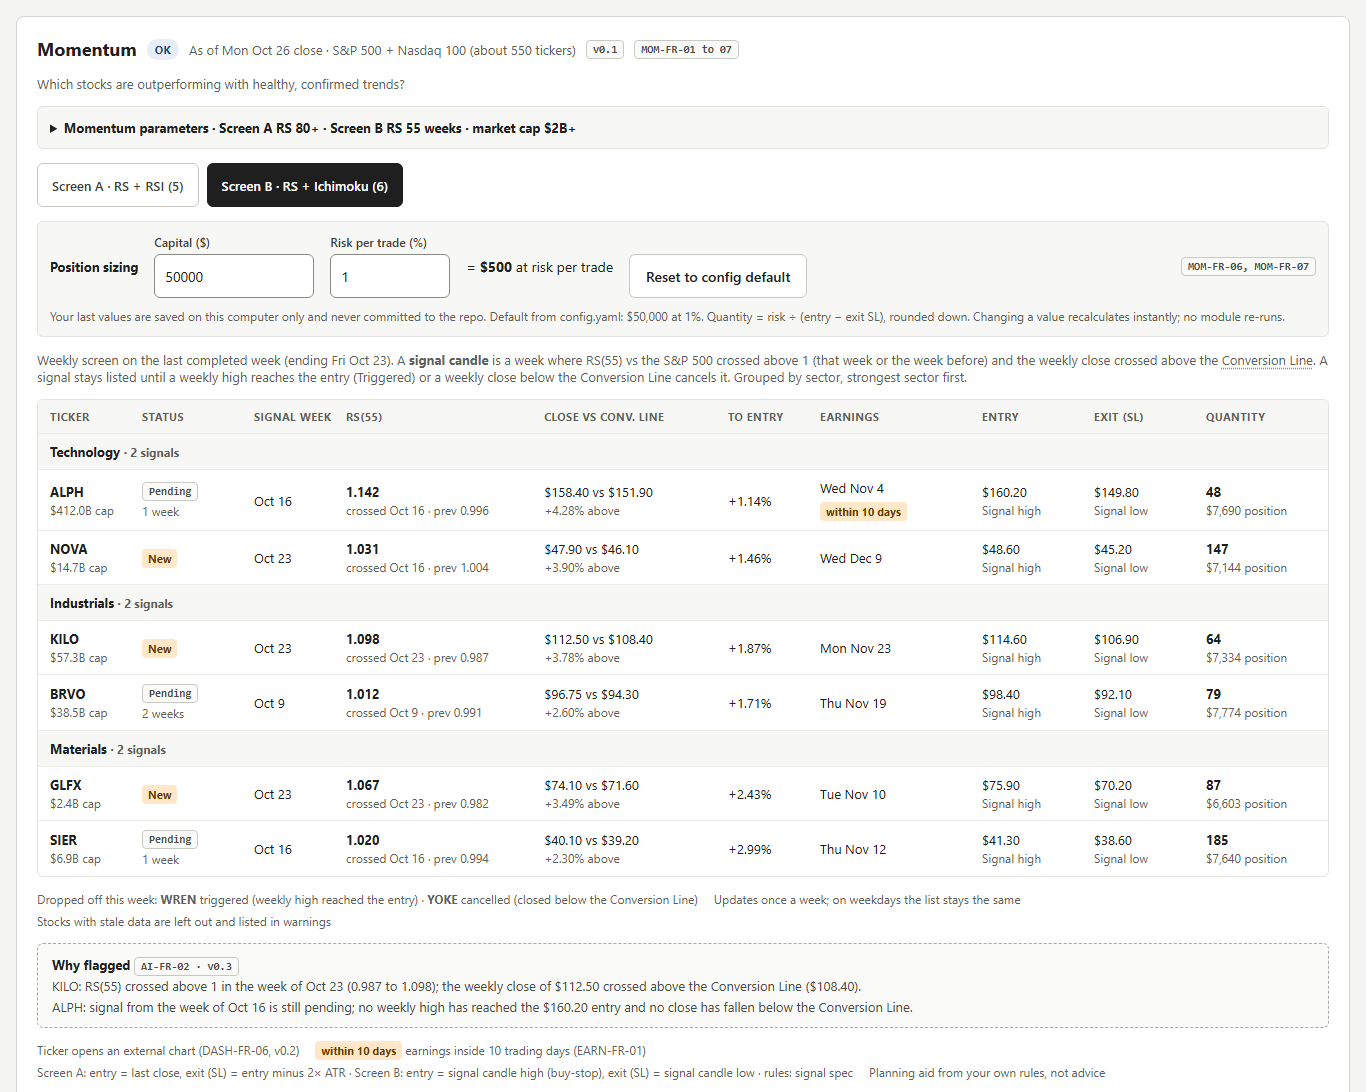
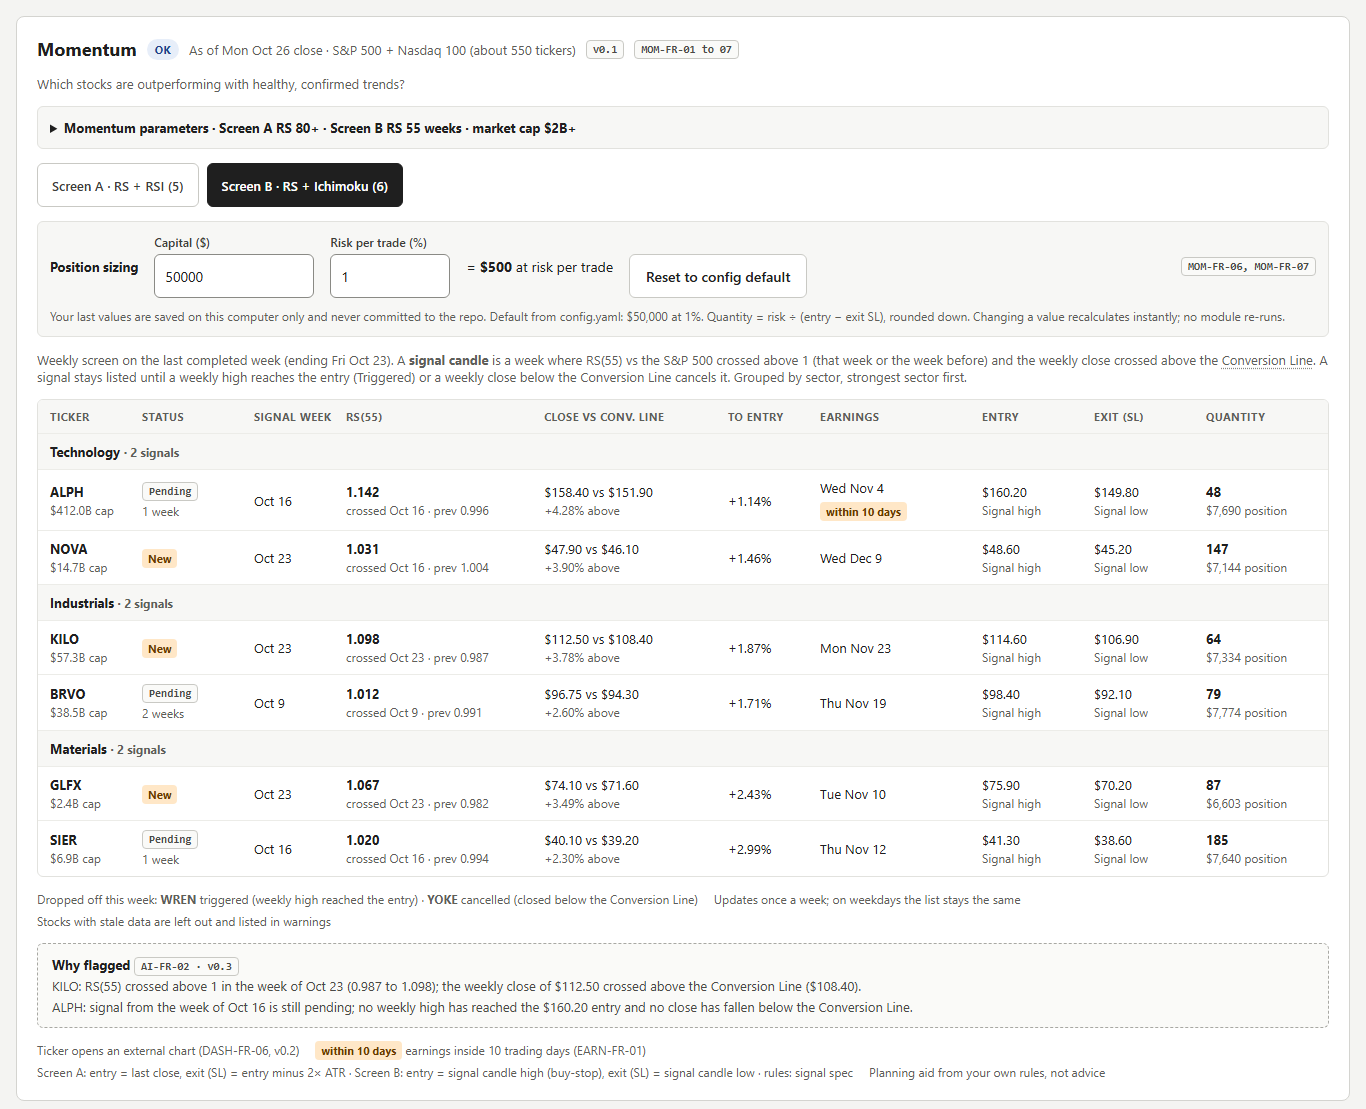
docs: update wireframe Value - Long Term to signal spec 1 (#13)

diff --git a/docs/wireframes/prototype.html b/docs/wireframes/prototype.html
@@ -70,7 +70,7 @@ a{color:#1D4ED8}a:hover{color:#1E3A8A}
     screen: SCREENS.indexOf(location.hash.slice(1)) >= 0 ? location.hash.slice(1) : 'dashboard',
     release: 'v1.0', econ: 'ok', mom: 'ok', per: 'ok', vlt: 'ok', regime: 'Risk-on', flag: true, holiday: false,
     momTab: 'A', perTab: 'healthy', cap: '50000', risk: '1',
-    minCap: '2', rsMin: '80', perThr: '15', fMin: '7', snap: '26', open: {}
+    minCap: '2', rsMin: '80', perThr: '15', pegMax: '1', snap: '26', open: {}
   };
 
   // ---------- sample data (fictional tickers) ----------
@@ -151,11 +151,12 @@ a{color:#1D4ED8}a:hover{color:#1E3A8A}
       { t: 'PAPA', sector: 'Consumer Staples', pe: '17.0', med: '20.3', chg: -16.3, eps: 'Flat', earn: 'Tue Dec 1', soon: false } ] }
   };
   var VLT = [
-    { t: 'QBEC', sector: 'Energy', pe: '9.8 vs 12.4', fcf: '8.1%', roe: '21%', de: '0.42', f: 8, score: '86', earn: 'Tue Nov 3' },
-    { t: 'SIER', sector: 'Materials', pe: '11.6 vs 15.2', fcf: '6.9%', roe: '18%', de: '0.55', f: 7, score: '79', earn: 'Thu Nov 12' },
-    { t: 'TANG', sector: 'Health Care', pe: '14.1 vs 19.8', fcf: '6.2%', roe: '24%', de: '0.31', f: 8, score: '77', earn: 'Wed Nov 18' },
-    { t: 'UNIF', sector: 'Industrials', pe: '15.3 vs 19.0', fcf: '5.8%', roe: '17%', de: '0.68', f: 7, score: '71', earn: 'Tue Dec 8' },
-    { t: 'VIKN', sector: 'Consumer Staples', pe: '16.9 vs 20.3', fcf: '5.4%', roe: '16%', de: '0.87', f: 7, score: '66', earn: 'Thu Jan 7' }
+    // Spec 1: all rows pass options, interest coverage > 5, 10-yr revenue and net income CAGR > 10%, PEG < 1, Debt/EBITDA <= 3
+    { t: 'QBEC', name: 'Quebec Energy', ic: '9.6×', rev: 11.2, eps: 22.5, fcf: 19.4, ni: 20.1, peg: 0.46, ocf: 2.05, nip: 1.52, d2p: 1.9, cfo: 1.35, earn: 'Tue Nov 3' },
+    { t: 'SIER', name: 'Sierra Materials', ic: 'No debt', rev: 13.5, eps: 21.2, fcf: 16.7, ni: 19.8, peg: 0.68, ocf: 0.62, nip: 0.48, d2p: 0.0, cfo: 1.29, earn: 'Thu Nov 12' },
+    { t: 'TANG', name: 'Tangent Health', ic: '14.2×', rev: 12.4, eps: 18.9, fcf: 15.1, ni: 16.8, peg: 0.82, ocf: 2.41, nip: 1.86, d2p: 1.3, cfo: 1.30, earn: 'Wed Nov 18' },
+    { t: 'UNIF', name: 'Uniform Industrial', ic: '7.8×', rev: 10.8, eps: 17.6, fcf: 12.0, ni: 14.9, peg: 0.91, ocf: 0.98, nip: 0.71, d2p: 2.6, cfo: 1.38, earn: 'Tue Dec 8' },
+    { t: 'VIKN', name: 'Viking Foods', ic: '6.1×', rev: 10.3, eps: 14.8, fcf: 9.2, ni: 12.6, peg: 0.97, ocf: 0.29, nip: 0.24, d2p: 2.9, cfo: 1.21, earn: 'Thu Jan 7' }
   ];
   var CONF = [
     { t: 'ALPH', sector: 'Technology', n: '3', mods: ['Momentum A', 'Momentum B', 'PE re-rating · healthy'] },
@@ -220,8 +221,8 @@ a{color:#1D4ED8}a:hover{color:#1E3A8A}
     var reg = REGIMES[S.regime];
 
     // parameters
-    var minCap = Math.max(0, num(S.minCap, 0)), rsMin = num(S.rsMin, 80), perThr = num(S.perThr, 15), fMin = num(S.fMin, 7);
-    var isDefault = minCap === 2 && rsMin === 80 && perThr === 15 && fMin === 7;
+    var minCap = Math.max(0, num(S.minCap, 0)), rsMin = num(S.rsMin, 80), perThr = num(S.perThr, 15), pegMax = num(S.pegMax, 1);
+    var isDefault = minCap === 2 && rsMin === 80 && perThr === 15 && pegMax === 1;
     function inUni(x) { return (CAPS[x.t] || 0) >= minCap; }
 
     // sizing
@@ -249,7 +250,8 @@ a{color:#1D4ED8}a:hover{color:#1E3A8A}
     var cur = S.momTab === 'B' ? momB : momA;
     function perFilter(rows) { return rows.filter(function (x) { return inUni(x) && Math.abs(x.chg) >= perThr; }); }
     var perRows = perFilter(PER[S.perTab].rows);
-    var vltRows = VLT.filter(function (x) { return inUni(x) && x.f >= fMin; });
+    var vltRows = VLT.filter(function (x) { return inUni(x) && x.peg < pegMax; })
+      .sort(function (a, b) { return (CAPS[b.t] || 0) - (CAPS[a.t] || 0); });
     var universe = Math.round(550 * Math.exp(-minCap / 60));
 
     var h = '';
@@ -425,22 +427,27 @@ a{color:#1D4ED8}a:hover{color:#1E3A8A}
       }
       h += '</section>';
 
-      var VC = '70px minmax(130px,1.3fr) 120px 80px 70px 70px 70px 90px minmax(120px,1.1fr)';
+      var VC = '70px minmax(120px,1fr) 64px 84px 76px 64px 64px 80px 50px 84px 80px 70px 70px 100px';
+      function pct(v) { return v.toFixed(1) + '%'; }
       h += '<section class="card" id="vlt"><div class="sh"><h2 class="st">Value · Long Term</h2>' + vlt.chip + '<span class="meta">As of ' + asOf + '</span>' + tag('v0.2') + tag('VLT-FR-01 to 05') + '</div>' +
-        '<p class="q">Which quality companies are trading cheap? PE below sector median, FCF yield 5%+, ROE 15%+, debt/equity under 1, F-score ' + fMin + '+. Top 10 by value score.</p>' +
-        details('vlt', 'Value parameters · F-score ' + fMin + '+ · market cap $' + minCap + 'B+',
-          field('Piotroski F-score at least', 'fMin', 'type="number" min="0" max="9" step="1"', 120) +
-          field('FCF yield at least (%)', '5', 'type="number"', 120, true) + field('ROE at least (%)', '15', 'type="number"', 120, true) +
-          field('Debt/equity below', '1', 'type="number" step="0.1"', 120, true) + '<button class="btn" type="button">Apply · re-run from cached data</button>') +
+        '<p class="q">Which consistently growing, low-debt companies are priced attractively relative to their growth? Listed US options, interest coverage above 5, 10-year revenue and net income growth above 10% a year, ' +
+        '<span class="def" title="PEG = PE ÷ EPS growth rate (%). Below 1 means the price is low relative to earnings growth.">PEG</span> below ' + pegMax + ', and ' +
+        '<span class="def" title="Total debt ÷ EBITDA: about how many years of earnings it would take to repay the debt.">Debt/EBITDA</span> of 3 or less. All passing stocks, largest market cap first.</p>' +
+        details('vlt', 'Value parameters · PEG below ' + pegMax + ' · market cap $' + minCap + 'B+',
+          field('PEG below', 'pegMax', 'type="number" inputmode="decimal" min="0" step="0.1"', 110) +
+          field('US options required', 'Yes', 'type="text"', 110, true) + field('Interest coverage above', '5', 'type="number"', 110, true) +
+          field('Revenue growth 10 yrs above (%)', '10', 'type="number"', 110, true) + field('Net income growth 10 yrs above (%)', '10', 'type="number"', 110, true) +
+          field('Debt/EBITDA at most', '3', 'type="number" step="0.5"', 110, true) + '<button class="btn" type="button">Apply · re-run from cached data</button>') +
         when(vlt.partial, '<div class="warn"><strong>Partial:</strong> fundamentals fetched for 501 of 550 tickers (91%). Left out of the confluence list.</div>') +
-        when(vlt.unavailable, '<div class="unav"><strong>Value · Long Term is unavailable</strong><span>Reason: FMP source disabled (free-tier daily limit reached).</span><span>Last good run: Fri Oct 23 close. Every other section loaded normally.</span></div>') +
-        when(vlt.few, '<div class="unav" style="background:#FAFAF8"><strong>Fewer than 3 stocks passed all five rules today</strong><span>No table shown.</span></div>');
-      if (vlt.table && !vltRows.length) h += '<div class="unav" style="background:#FAFAF8"><strong>No stocks match the current parameters</strong><span>Lower the F-score minimum or the market-cap filter. (VLT-FR-05)</span></div>';
+        when(vlt.unavailable, '<div class="unav"><strong>Value · Long Term is unavailable</strong><span>Reason: SEC EDGAR source did not respond (10 years of annual statements).</span><span>Last good run: Fri Oct 23 close. Every other section loaded normally.</span></div>') +
+        when(vlt.few, '<div class="unav" style="background:#FAFAF8"><strong>Fewer than 3 stocks passed all six rules today</strong><span>No table shown.</span></div>');
+      if (vlt.table && !vltRows.length) h += '<div class="unav" style="background:#FAFAF8"><strong>No stocks match the current parameters</strong><span>Raise the PEG limit or lower the market-cap filter. (VLT-FR-05)</span></div>';
       else if (vlt.table) {
-        h += '<div class="scroll"><div style="min-width:1000px"><div class="tr th" style="grid-template-columns:' + VC + '"><span>Ticker</span><span>Sector</span><span>PE vs sector</span><span>FCF yield</span><span>ROE</span><span>D/E</span><span>F-score</span><span>Value score</span><span>Earnings</span></div>' +
+        h += '<div class="scroll"><div style="min-width:1240px"><div class="tr th" style="grid-template-columns:' + VC + '"><span>Ticker</span><span>Name</span><span>Options</span><span title="EBIT ÷ interest expense" class="def">Int. coverage</span><span>Revenue 10y</span><span>EPS 10y</span><span>FCF 10y</span><span>Net income 10y</span><span>PEG</span><span>Op. cash flow</span><span>Net income</span><span title="Total debt ÷ net income" class="def">Debt to profit</span><span title="Operating cash flow ÷ net income. Above 1 = earnings backed by cash" class="def">CFO to profit</span><span>Earnings</span></div>' +
           vltRows.map(function (x) {
-            return '<div class="tr" style="grid-template-columns:' + VC + '">' + tickerCell(x.t) + '<span>' + x.sector + '</span><span>' + x.pe + '</span><span>' + x.fcf + '</span><span>' + x.roe + '</span><span>' + x.de + '</span><span>' + x.f + '</span><strong>' + x.score + '</strong><span>' + x.earn + '</span></div>';
-          }).join('') + '</div></div><div class="legend"><span>Excluded today: 23 with negative earnings, 6 with missing fundamentals (VLT-FR-04)</span><span>Value score formula: signal spec (Q6)</span></div>';
+            return '<div class="tr" style="grid-template-columns:' + VC + '">' + tickerCell(x.t) + '<span>' + x.name + '</span><span>Yes</span><span>' + x.ic + '</span><span>' + pct(x.rev) + '</span><span>' + pct(x.eps) + '</span><span>' + pct(x.fcf) + '</span><span>' + pct(x.ni) + '</span><strong>' + x.peg.toFixed(2) + '</strong>' +
+              '<span>$' + x.ocf.toFixed(2) + 'B</span><span>$' + x.nip.toFixed(2) + 'B</span><span>' + x.d2p.toFixed(1) + '</span><span>' + x.cfo.toFixed(2) + '</span><span>' + x.earn + '</span></div>';
+          }).join('') + '</div></div><div class="legend"><span>Growth = compound annual growth rate (CAGR) over 10 years; cash flow and net income are trailing 12 months</span><span>Excluded today: 41 with under 10 years of history, 18 with negative net income at the start or end, 6 with missing fields (VLT-FR-04)</span><span>Rules: Spec 1 · Value – Long Term</span></div>';
       }
       h += '</section>';
 
@@ -598,7 +605,7 @@ a{color:#1D4ED8}a:hover{color:#1E3A8A}
     if (!b) return;
     e.preventDefault();
     var kv = b.getAttribute('data-set').split('='), k = kv[0], v = kv[1];
-    if (k === 'reset' && v === 'params') { S.minCap = '2'; S.rsMin = '80'; S.perThr = '15'; S.fMin = '7'; }
+    if (k === 'reset' && v === 'params') { S.minCap = '2'; S.rsMin = '80'; S.perThr = '15'; S.pegMax = '1'; }
     else if (k === 'reset' && v === 'sizing') { S.cap = '50000'; S.risk = '1'; }
     else { S[k] = v; }
     if (k === 'screen') { history.replaceState(null, '', '#' + v); window.scrollTo(0, 0); }

diff --git a/docs/wireframes/README.md b/docs/wireframes/README.md
@@ -7,6 +7,7 @@ A low-fidelity, clickable wireframe of the dashboard. It goes with [PRD v1.2](..
 | [prototype.html](prototype.html) | Clickable prototype in a single self-contained file. It needs no network or build step: download it and open it in any browser. |
 | [dashboard.png](dashboard.png) | Main page at release v1.0, default parameters, all modules OK |
 | [momentum-screen-b.png](momentum-screen-b.png) | Momentum Screen B (RS + Ichimoku, weekly): New and Pending signals grouped by sector, with entry at the signal candle high and exit at its low ([Spec 4](../04-signal-spec/04-rs-ichimoku.md)) |
+| [value-long-term.png](value-long-term.png) | Value – Long Term: options, interest coverage, 10-year growth, PEG and Debt/EBITDA rules, largest market cap first ([Spec 1](../04-signal-spec/01-value-long-term.md)) |
 | [archive.png](archive.png) | Snapshot archive: open a past refresh by date |
 | [states.png](states.png) | One section in six states (ok, partial, unavailable, fewer than 3, coming soon, risk-off) |
 
@@ -24,7 +25,7 @@ The dark bar at the top holds the **prototype controls**. They aren't part of th
 These parts of the page itself respond to clicks and typing:
 
 - Momentum Screen A / B tabs and the PE Re-rating list tabs
-- **Stock selection parameters**: market cap at least ($B), plus Screen A's RS minimum, PE change % and F-score minimum in each section's parameter panel. Screen B responds to the market-cap filter only; its RS length field is shown but not wired. Tables, tab counts and empty states update as you type.
+- **Stock selection parameters**: market cap at least ($B), plus Screen A's RS minimum, PE change % and Value – Long Term's PEG limit in each section's parameter panel. Screen B responds to the market-cap filter only; its RS length field is shown but not wired. Tables, tab counts and empty states update as you type.
 - **Position sizing**: Capital ($) and Risk per trade (%). Entry, Exit (SL) and Quantity recalculate, and positions larger than capital are flagged.
 - Hovering an underlined indicator or market tile shows a plain-language definition.
 - The Archive link and snapshot list
